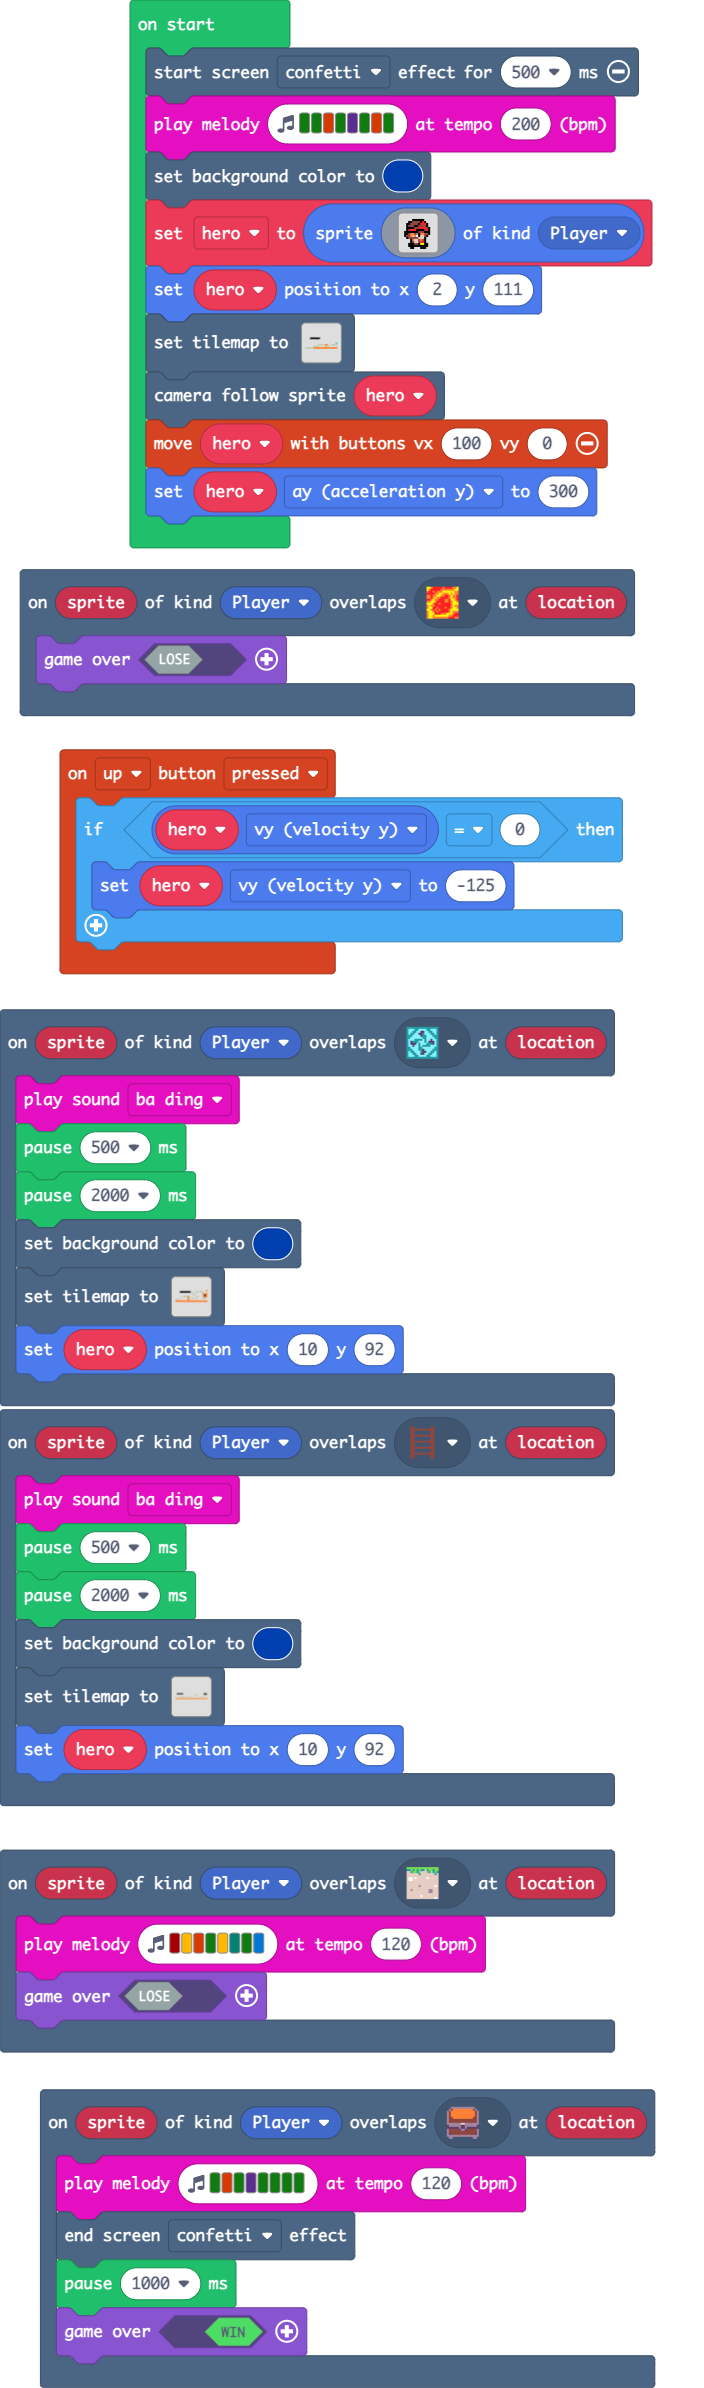
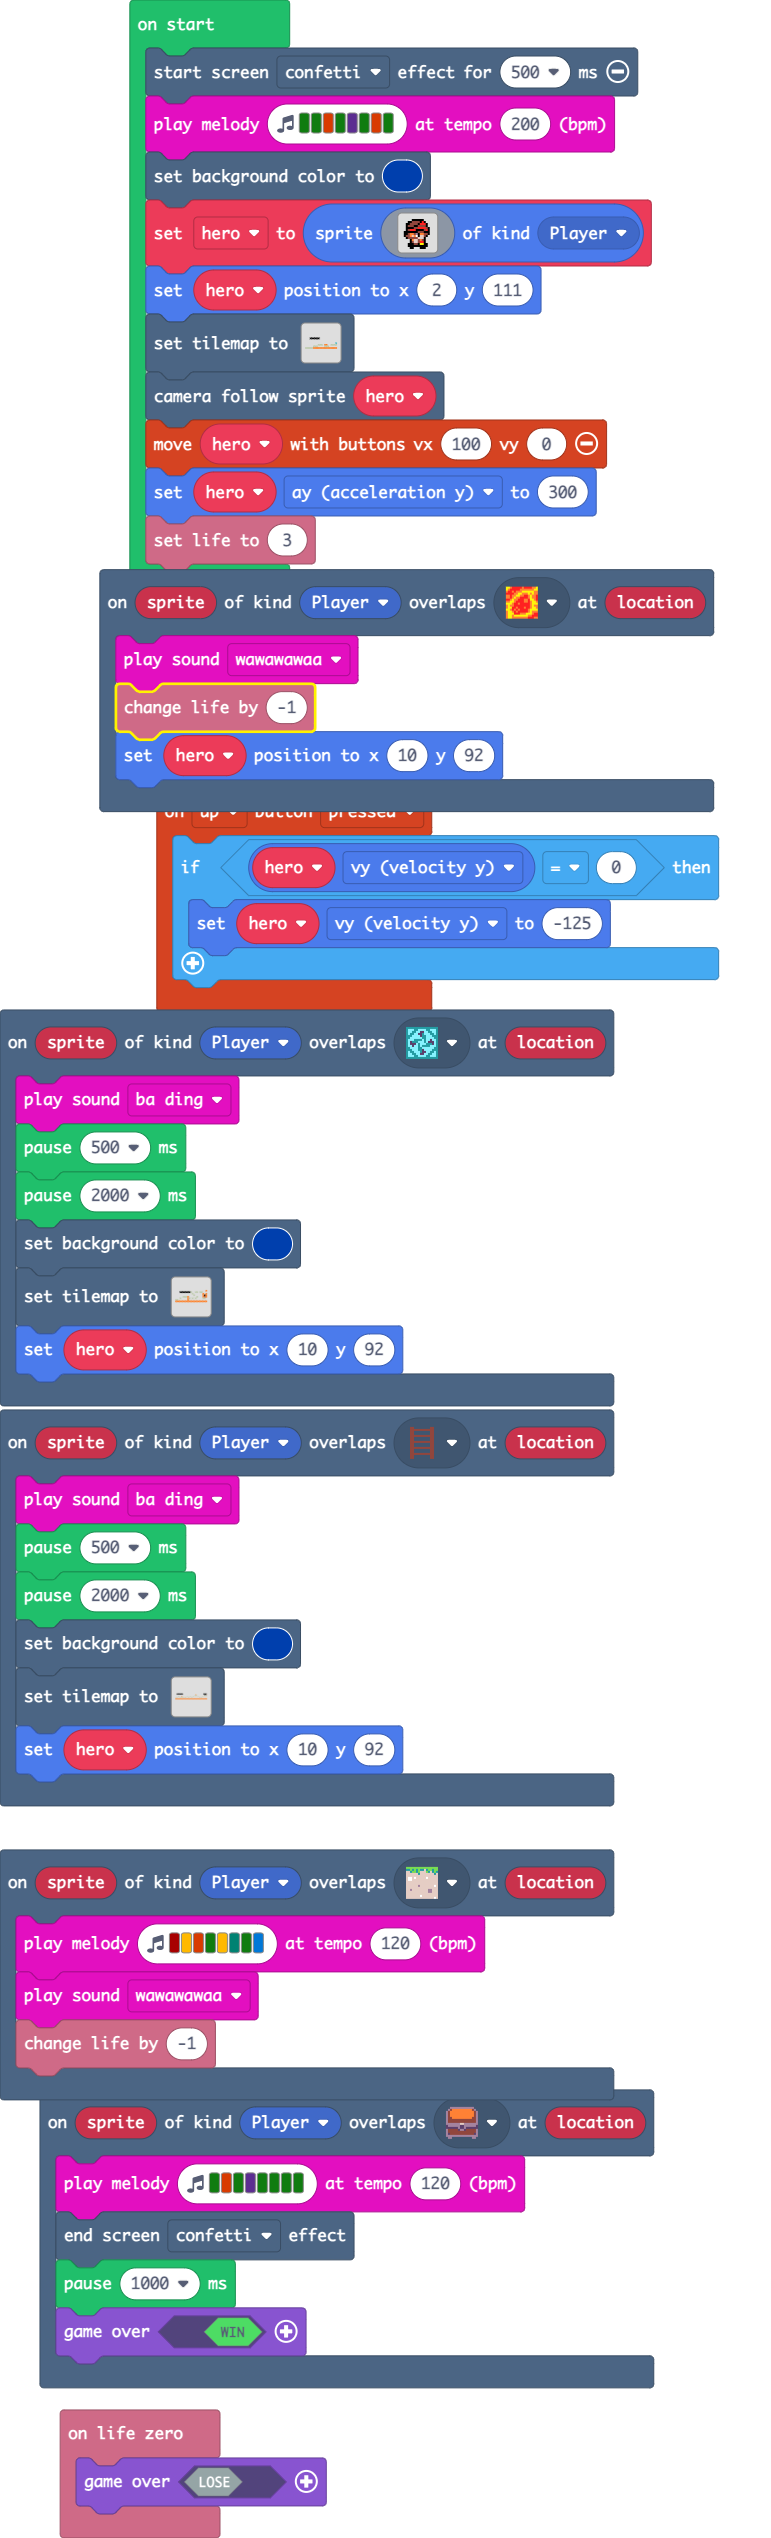
added lives

diff --git a/main.ts b/main.ts
@@ -16,16 +16,22 @@ controller.up.onEvent(ControllerButtonEvent.Pressed, function () {
 })
 scene.onOverlapTile(SpriteKind.Player, sprites.castle.tilePath2, function (sprite, location) {
     music.playMelody("C5 A B G A F G E ", 120)
-    game.over(false)
+    music.wawawawaa.play()
+    info.changeLifeBy(-1)
 })
 scene.onOverlapTile(SpriteKind.Player, sprites.dungeon.hazardLava0, function (sprite, location) {
-    game.over(false)
+    music.wawawawaa.play()
+    info.changeLifeBy(-1)
+    hero.setPosition(10, 92)
 })
 scene.onOverlapTile(SpriteKind.Player, sprites.dungeon.chestClosed, function (sprite, location) {
     music.playMelody("G B G D G G G G ", 120)
     effects.confetti.endScreenEffect()
     pause(1000)
     game.over(true)
+})
+info.onLifeZero(function () {
+    game.over(false)
 })
 scene.onOverlapTile(SpriteKind.Player, sprites.dungeon.collectibleInsignia, function (sprite, location) {
     music.baDing.play()
@@ -62,3 +68,4 @@ tiles.setTilemap(tilemap`level1`)
 scene.cameraFollowSprite(hero)
 controller.moveSprite(hero, 100, 0)
 hero.ay = 300
+info.setLife(3)
